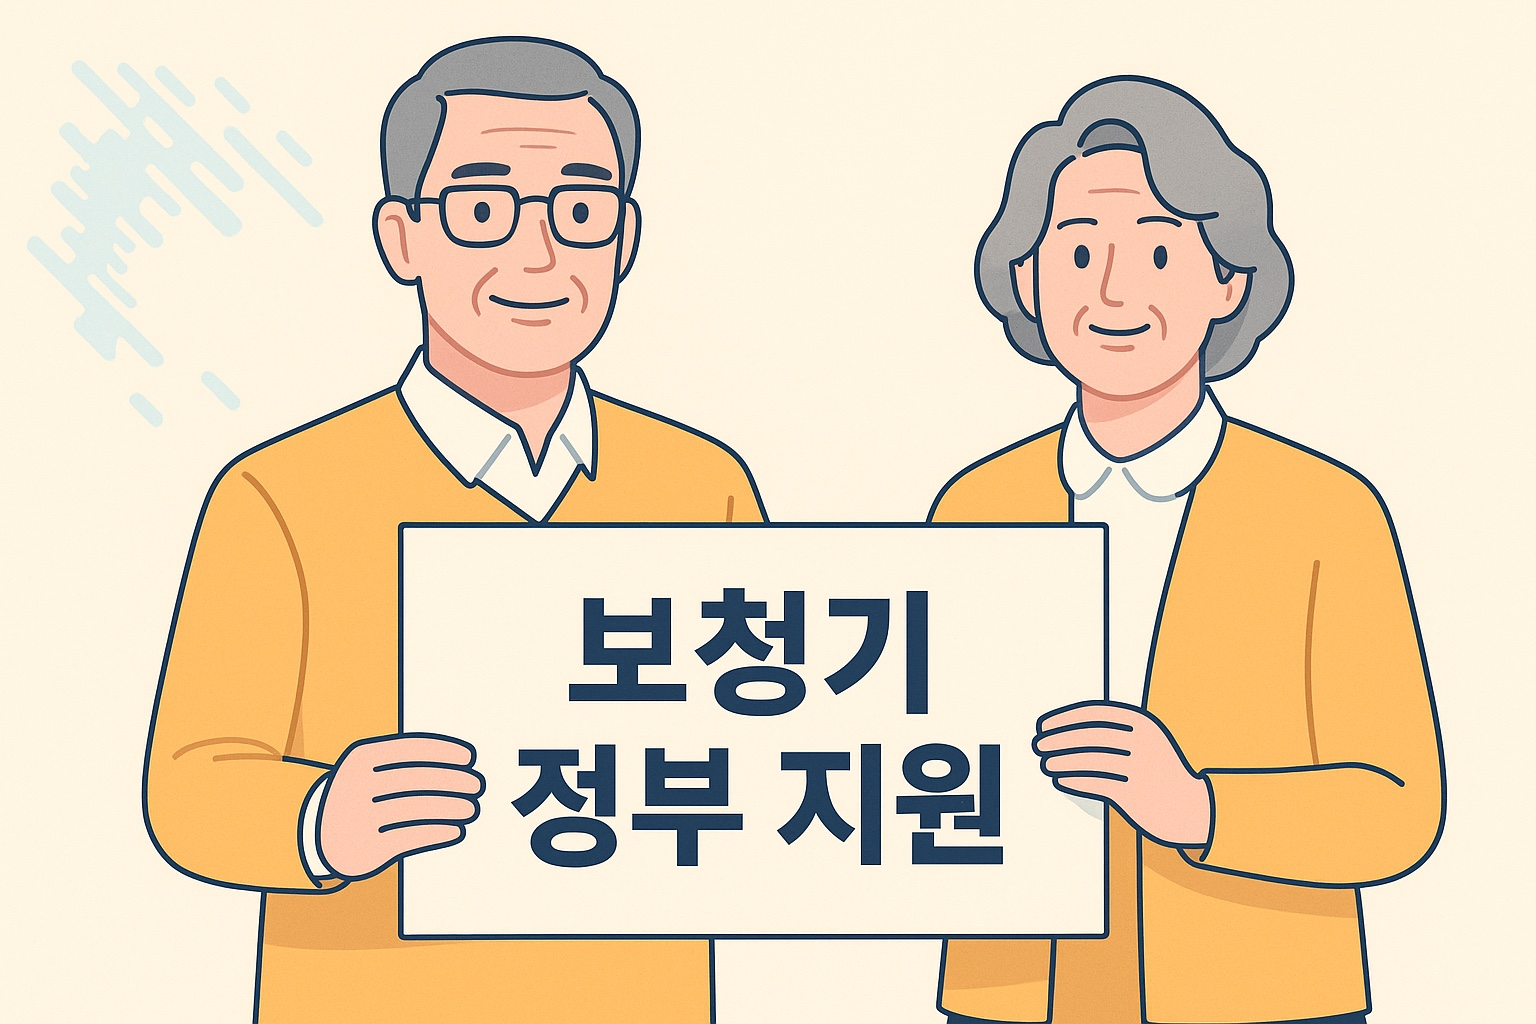
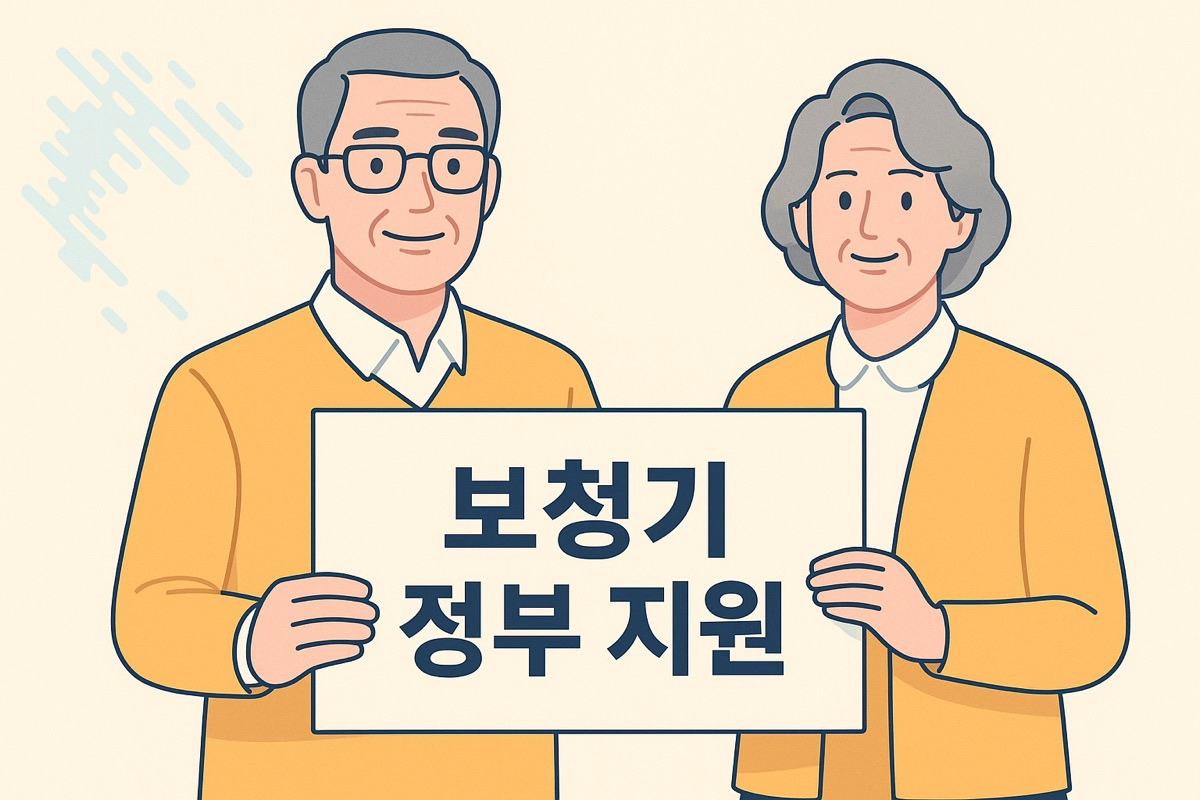
사이트 점검 수정: 카톡/SNS 공유 미리보기(og 절대주소+서브페이지 og/canonical), 개인정보처리방침·이용약관·404 페이지 신설, 홈 h1(sr-only), 이미지 압축(govt 368→170K, hero 332→244K), CSS v=6

diff --git a/privacy.html b/privacy.html
@@ -3,15 +3,10 @@
 <head>
 <meta charset="UTF-8">
 <meta name="viewport" content="width=device-width, initial-scale=1.0">
-<title>문의/상담 | 창원 진해 귀인보청기 청각재활센터</title>
-<meta name="description" content="궁금한 점이 있으시거나 상담을 원하시면 편하게 전화로 문의해주세요. 귀인 보청기 010-6599-0109">
+<title>개인정보처리방침 | 귀인보청기 청각재활센터</title>
+<meta name="description" content="귀인보청기 청각재활센터 개인정보처리방침">
 <link rel="icon" href="images/logo.png">
-<link rel="canonical" href="https://inear-hearing.github.io/contact.html">
-<meta property="og:type" content="website">
-<meta property="og:url" content="https://inear-hearing.github.io/contact.html">
-<meta property="og:title" content="문의/상담 | 창원 진해 귀인보청기 청각재활센터">
-<meta property="og:description" content="궁금한 점이 있으시거나 상담을 원하시면 편하게 전화로 문의해주세요. 귀인 보청기 010-6599-0109">
-<meta property="og:image" content="https://inear-hearing.github.io/images/hero.jpg">
+<link rel="canonical" href="https://inear-hearing.github.io/privacy.html">
 <link rel="stylesheet" href="css/style.css?v=6">
 </head>
 <body>
@@ -25,34 +20,39 @@
       <a href="director.html">함께하는 사람들</a>
       <a href="tour.html">둘러보기</a>
       <a href="location.html">진료시간 &amp; 오시는길</a>
-      <a href="contact.html" class="tel active">문의 : 010-6599-0109</a>
+      <a href="contact.html" class="tel">문의 : 010-6599-0109</a>
     </nav>
   </div>
 </header>
 
-<section class="page-hero" style="background-image:url('images/hero.jpg')">
+<section class="page-hero" style="background-image:url('images/tour02.jpg')">
   <div class="ph-inner">
     <div class="ic"><svg viewBox="0 0 48 48" fill="none" stroke="#fff" stroke-width="2.6" stroke-linecap="round" stroke-linejoin="round"><path d="M16 34c-3.5 0-6-2.8-6-7.5C10 18 16 12 24 12s13 5.5 13 13c0 5-3 8-6.5 8"/><path d="M24 23a2.5 2.5 0 0 1 2.5 2.5C26.5 27.5 25 28 25 30"/></svg></div>
-    <h1>문의하기</h1>
+    <h1>개인정보처리방침</h1>
   </div>
 </section>
-<div class="subnav"><div class="inner">
-  <a href="index.html">귀인보청기 소개</a>
-  <a href="director.html">함께하는 사람들</a>
-  <a href="tour.html">둘러보기</a>
-  <a href="location.html">진료시간 &amp; 오시는길</a>
-  <a href="contact.html" class="active">문의 : 010-6599-0109</a>
-</div></div>
 
 <section class="sec">
-  <div class="container">
-    <div class="contact-box">
-      <h2>예약 문의</h2>
-      <p>궁금한 점이 있으시거나 상담을 원하시면<br>편하게 전화로 문의해주세요.</p>
-      <a class="contact-tel" href="tel:01065990109">
-        <svg viewBox="0 0 24 24" fill="none" stroke="currentColor" stroke-width="2" stroke-linecap="round" stroke-linejoin="round"><path d="M22 16.92v3a2 2 0 0 1-2.18 2 19.79 19.79 0 0 1-8.63-3.07 19.5 19.5 0 0 1-6-6 19.79 19.79 0 0 1-3.07-8.67A2 2 0 0 1 4.11 2h3a2 2 0 0 1 2 1.72c.13.96.36 1.9.7 2.81a2 2 0 0 1-.45 2.11L8.09 9.91a16 16 0 0 0 6 6l1.27-1.27a2 2 0 0 1 2.11-.45c.91.34 1.85.57 2.81.7A2 2 0 0 1 22 16.92z"/></svg>
-        010-6599-0109
-      </a>
+  <div class="container" style="max-width:820px">
+    <div class="legal" style="color:var(--body);font-size:15.5px;line-height:1.9">
+      <p>주식회사 귀인 보청기(이하 ‘귀인보청기’)는 이용자의 개인정보를 소중히 여기며, 「개인정보 보호법」 등 관련 법령을 준수합니다.</p>
+
+      <h3 style="color:var(--ink);font-size:18px;margin:28px 0 10px">1. 수집하는 개인정보</h3>
+      <p>본 홈페이지는 회원가입, 게시판, 쿠키 기반 추적 기능을 운영하지 않으며, 홈페이지 이용만으로는 개인정보를 수집하지 않습니다. 전화 상담·예약 과정에서 성함, 연락처, 청력 관련 상담 내용을 제공받을 수 있습니다.</p>
+
+      <h3 style="color:var(--ink);font-size:18px;margin:28px 0 10px">2. 개인정보의 이용 목적</h3>
+      <p>전화 상담 시 제공된 정보는 상담, 예약 안내, 사후관리(A/S) 연락 목적으로만 사용하며, 그 외 목적으로 이용하거나 제3자에게 제공하지 않습니다.</p>
+
+      <h3 style="color:var(--ink);font-size:18px;margin:28px 0 10px">3. 개인정보의 보유 및 파기</h3>
+      <p>상담·사후관리 목적 달성 시까지 보유하며, 목적 달성 후 또는 이용자의 요청 시 지체 없이 파기합니다.</p>
+
+      <h3 style="color:var(--ink);font-size:18px;margin:28px 0 10px">4. 외부 서비스 링크</h3>
+      <p>홈페이지 내 네이버 지도·카카오맵 등 외부 서비스 링크 이용 시, 해당 서비스의 개인정보처리방침이 적용됩니다.</p>
+
+      <h3 style="color:var(--ink);font-size:18px;margin:28px 0 10px">5. 개인정보 보호책임자 및 문의</h3>
+      <p>개인정보 관련 문의: 대표 이성행 · 전화 <a href="tel:01065990109" style="color:var(--blue);font-weight:700">010-6599-0109</a></p>
+
+      <p style="margin-top:30px;color:var(--muted);font-size:13.5px">시행일: 2026년 6월</p>
     </div>
   </div>
 </section>

diff --git a/terms.html b/terms.html
@@ -3,15 +3,10 @@
 <head>
 <meta charset="UTF-8">
 <meta name="viewport" content="width=device-width, initial-scale=1.0">
-<title>문의/상담 | 창원 진해 귀인보청기 청각재활센터</title>
-<meta name="description" content="궁금한 점이 있으시거나 상담을 원하시면 편하게 전화로 문의해주세요. 귀인 보청기 010-6599-0109">
+<title>이용약관 | 귀인보청기 청각재활센터</title>
+<meta name="description" content="귀인보청기 청각재활센터 홈페이지 이용약관">
 <link rel="icon" href="images/logo.png">
-<link rel="canonical" href="https://inear-hearing.github.io/contact.html">
-<meta property="og:type" content="website">
-<meta property="og:url" content="https://inear-hearing.github.io/contact.html">
-<meta property="og:title" content="문의/상담 | 창원 진해 귀인보청기 청각재활센터">
-<meta property="og:description" content="궁금한 점이 있으시거나 상담을 원하시면 편하게 전화로 문의해주세요. 귀인 보청기 010-6599-0109">
-<meta property="og:image" content="https://inear-hearing.github.io/images/hero.jpg">
+<link rel="canonical" href="https://inear-hearing.github.io/terms.html">
 <link rel="stylesheet" href="css/style.css?v=6">
 </head>
 <body>
@@ -25,34 +20,37 @@
       <a href="director.html">함께하는 사람들</a>
       <a href="tour.html">둘러보기</a>
       <a href="location.html">진료시간 &amp; 오시는길</a>
-      <a href="contact.html" class="tel active">문의 : 010-6599-0109</a>
+      <a href="contact.html" class="tel">문의 : 010-6599-0109</a>
     </nav>
   </div>
 </header>
 
-<section class="page-hero" style="background-image:url('images/hero.jpg')">
+<section class="page-hero" style="background-image:url('images/tour02.jpg')">
   <div class="ph-inner">
     <div class="ic"><svg viewBox="0 0 48 48" fill="none" stroke="#fff" stroke-width="2.6" stroke-linecap="round" stroke-linejoin="round"><path d="M16 34c-3.5 0-6-2.8-6-7.5C10 18 16 12 24 12s13 5.5 13 13c0 5-3 8-6.5 8"/><path d="M24 23a2.5 2.5 0 0 1 2.5 2.5C26.5 27.5 25 28 25 30"/></svg></div>
-    <h1>문의하기</h1>
+    <h1>이용약관</h1>
   </div>
 </section>
-<div class="subnav"><div class="inner">
-  <a href="index.html">귀인보청기 소개</a>
-  <a href="director.html">함께하는 사람들</a>
-  <a href="tour.html">둘러보기</a>
-  <a href="location.html">진료시간 &amp; 오시는길</a>
-  <a href="contact.html" class="active">문의 : 010-6599-0109</a>
-</div></div>
 
 <section class="sec">
-  <div class="container">
-    <div class="contact-box">
-      <h2>예약 문의</h2>
-      <p>궁금한 점이 있으시거나 상담을 원하시면<br>편하게 전화로 문의해주세요.</p>
-      <a class="contact-tel" href="tel:01065990109">
-        <svg viewBox="0 0 24 24" fill="none" stroke="currentColor" stroke-width="2" stroke-linecap="round" stroke-linejoin="round"><path d="M22 16.92v3a2 2 0 0 1-2.18 2 19.79 19.79 0 0 1-8.63-3.07 19.5 19.5 0 0 1-6-6 19.79 19.79 0 0 1-3.07-8.67A2 2 0 0 1 4.11 2h3a2 2 0 0 1 2 1.72c.13.96.36 1.9.7 2.81a2 2 0 0 1-.45 2.11L8.09 9.91a16 16 0 0 0 6 6l1.27-1.27a2 2 0 0 1 2.11-.45c.91.34 1.85.57 2.81.7A2 2 0 0 1 22 16.92z"/></svg>
-        010-6599-0109
-      </a>
+  <div class="container" style="max-width:820px">
+    <div class="legal" style="color:var(--body);font-size:15.5px;line-height:1.9">
+      <h3 style="color:var(--ink);font-size:18px;margin:0 0 10px">제1조 (목적)</h3>
+      <p>본 약관은 주식회사 귀인 보청기(이하 ‘귀인보청기’)가 운영하는 홈페이지의 이용 조건 및 절차에 관한 사항을 규정합니다.</p>
+
+      <h3 style="color:var(--ink);font-size:18px;margin:28px 0 10px">제2조 (서비스의 내용)</h3>
+      <p>본 홈페이지는 귀인보청기 센터 소개, 진료시간·위치 안내, 보청기 및 정부지원 제도에 관한 일반 정보를 제공합니다.</p>
+
+      <h3 style="color:var(--ink);font-size:18px;margin:28px 0 10px">제3조 (정보의 한계)</h3>
+      <p>홈페이지에 게시된 보청기 정부지원 금액·절차 등은 일반적인 안내로, 관련 법령·제도 변경에 따라 달라질 수 있습니다. 정확한 내용은 전화(010-6599-0109) 또는 방문 상담을 통해 확인해 주시기 바랍니다. 본 홈페이지의 정보는 의학적 진단을 대신하지 않습니다.</p>
+
+      <h3 style="color:var(--ink);font-size:18px;margin:28px 0 10px">제4조 (저작권)</h3>
+      <p>홈페이지에 게시된 텍스트, 사진, 이미지 등 모든 콘텐츠의 저작권은 귀인보청기에 있으며, 사전 동의 없는 무단 복제·배포를 금합니다.</p>
+
+      <h3 style="color:var(--ink);font-size:18px;margin:28px 0 10px">제5조 (문의)</h3>
+      <p>본 약관에 관한 문의: 전화 <a href="tel:01065990109" style="color:var(--blue);font-weight:700">010-6599-0109</a></p>
+
+      <p style="margin-top:30px;color:var(--muted);font-size:13.5px">시행일: 2026년 6월</p>
     </div>
   </div>
 </section>

diff --git a/index.html b/index.html
@@ -8,12 +8,12 @@
 <meta name="description" content="창원 진해 귀인보청기 청각재활센터 — 전문 청각사의 1:1 맞춤 상담·피팅, 보청기 정부지원 전 과정 안내, 평생 A/S 사후관리. 전화 010-6599-0109">
 <meta property="og:title" content="창원 진해 귀인보청기 청각재활센터">
 <meta property="og:description" content="귀한 당신을 위한, 귀인 보청기 — 듣는 것을 넘어서 사람을 먼저 생각합니다.">
-<meta property="og:image" content="images/hero.jpg">
+<meta property="og:image" content="https://inear-hearing.github.io/images/hero.jpg">
 <link rel="icon" href="images/logo.png">
 <link rel="canonical" href="https://inear-hearing.github.io/">
 <meta property="og:type" content="website">
 <meta property="og:url" content="https://inear-hearing.github.io/">
-<link rel="stylesheet" href="css/style.css?v=5">
+<link rel="stylesheet" href="css/style.css?v=6">
 <script type="application/ld+json">
 {
   "@context": "https://schema.org",
@@ -67,6 +67,7 @@
 
 <!-- ===== 히어로 ===== -->
 <section class="hero">
+  <h1 class="sr-only">창원 진해·부산 명지 귀인보청기 청각재활센터 — 귀한 당신을 위한 귀인 보청기</h1>
   <div class="hero-slides">
     <div class="slide on" style="background-image:url('images/hero.jpg')"></div>
     <div class="slide" style="background-image:url('images/tour02.jpg')"></div>
@@ -286,7 +287,7 @@
 <footer class="site-footer">
   <div class="container">
     <div class="flogo"><img src="images/logo.png" alt="귀인 보청기"></div>
-    <div class="policy"><a href="#">개인정보처리방침</a><span>|</span><a href="#">이용약관</a></div>
+    <div class="policy"><a href="privacy.html">개인정보처리방침</a><span>|</span><a href="terms.html">이용약관</a></div>
     <p class="biz">상호: 주식회사 귀인 보청기 &nbsp;|&nbsp; 대표자: 이성행 &nbsp;|&nbsp; 사업자등록번호: 729-81-03499<br>
       진해센터: 경남 창원시 진해구 진해대로 999, 1층 108호(자은동, 하이존빌딩)<br>명지서비스센터: 부산시 강서구 명지국제6로 99, 부산명지대방디엠시티센텀오션 1차 A동 1070호<br>전화: 010-6599-0109</p>
     <p class="copy">Copyright ⓒ 2025 귀인보청기 All rights reserved.</p>

diff --git a/director.html b/director.html
@@ -6,7 +6,13 @@
 <title>함께하는 사람들 | 창원 진해 귀인보청기 청각재활센터</title>
 <meta name="description" content="귀인보청기는 전문 청각사들이 직접 상담하고 안내하는 청각재활센터입니다. 청각사 이성행·윤동후·윤나영을 소개합니다.">
 <link rel="icon" href="images/logo.png">
-<link rel="stylesheet" href="css/style.css?v=5">
+<link rel="canonical" href="https://inear-hearing.github.io/director.html">
+<meta property="og:type" content="website">
+<meta property="og:url" content="https://inear-hearing.github.io/director.html">
+<meta property="og:title" content="함께하는 사람들 | 창원 진해 귀인보청기 청각재활센터">
+<meta property="og:description" content="귀인보청기는 전문 청각사들이 직접 상담하고 안내하는 청각재활센터입니다. 청각사 이성행·윤동후·윤나영을 소개합니다.">
+<meta property="og:image" content="https://inear-hearing.github.io/images/team.jpg">
+<link rel="stylesheet" href="css/style.css?v=6">
 </head>
 <body>
 
@@ -117,7 +123,7 @@
 <footer class="site-footer">
   <div class="container">
     <div class="flogo"><img src="images/logo.png" alt="귀인 보청기"></div>
-    <div class="policy"><a href="#">개인정보처리방침</a><span>|</span><a href="#">이용약관</a></div>
+    <div class="policy"><a href="privacy.html">개인정보처리방침</a><span>|</span><a href="terms.html">이용약관</a></div>
     <p class="biz">상호: 주식회사 귀인 보청기 &nbsp;|&nbsp; 대표자: 이성행 &nbsp;|&nbsp; 사업자등록번호: 729-81-03499<br>
       진해센터: 경남 창원시 진해구 진해대로 999, 1층 108호(자은동, 하이존빌딩)<br>명지서비스센터: 부산시 강서구 명지국제6로 99, 부산명지대방디엠시티센텀오션 1차 A동 1070호<br>전화: 010-6599-0109</p>
     <p class="copy">Copyright ⓒ 2025 귀인보청기 All rights reserved.</p>

diff --git a/tour.html b/tour.html
@@ -6,7 +6,13 @@
 <title>둘러보기 | 창원 진해 귀인보청기 청각재활센터</title>
 <meta name="description" content="귀인을 찾아주시는 모든 분들이 편안하게 머무를 수 있도록 세심하게 만든 공간, 귀인 보청기 청각재활센터를 둘러보세요.">
 <link rel="icon" href="images/logo.png">
-<link rel="stylesheet" href="css/style.css?v=5">
+<link rel="canonical" href="https://inear-hearing.github.io/tour.html">
+<meta property="og:type" content="website">
+<meta property="og:url" content="https://inear-hearing.github.io/tour.html">
+<meta property="og:title" content="둘러보기 | 창원 진해 귀인보청기 청각재활센터">
+<meta property="og:description" content="귀인을 찾아주시는 모든 분들이 편안하게 머무를 수 있도록 세심하게 만든 공간, 귀인 보청기 청각재활센터를 둘러보세요.">
+<meta property="og:image" content="https://inear-hearing.github.io/images/tour01.jpg">
+<link rel="stylesheet" href="css/style.css?v=6">
 </head>
 <body>
 
@@ -73,7 +79,7 @@
 <footer class="site-footer">
   <div class="container">
     <div class="flogo"><img src="images/logo.png" alt="귀인 보청기"></div>
-    <div class="policy"><a href="#">개인정보처리방침</a><span>|</span><a href="#">이용약관</a></div>
+    <div class="policy"><a href="privacy.html">개인정보처리방침</a><span>|</span><a href="terms.html">이용약관</a></div>
     <p class="biz">상호: 주식회사 귀인 보청기 &nbsp;|&nbsp; 대표자: 이성행 &nbsp;|&nbsp; 사업자등록번호: 729-81-03499<br>
       진해센터: 경남 창원시 진해구 진해대로 999, 1층 108호(자은동, 하이존빌딩)<br>명지서비스센터: 부산시 강서구 명지국제6로 99, 부산명지대방디엠시티센텀오션 1차 A동 1070호<br>전화: 010-6599-0109</p>
     <p class="copy">Copyright ⓒ 2025 귀인보청기 All rights reserved.</p>

diff --git a/location.html b/location.html
@@ -6,7 +6,13 @@
 <title>진료시간 &amp; 오시는길 | 창원 진해 귀인보청기 청각재활센터</title>
 <meta name="description" content="귀인보청기 진해센터(경남 창원시 진해구 진해대로 999)와 명지서비스센터(부산시 강서구 명지국제6로 99) 위치·진료시간·전화 안내.">
 <link rel="icon" href="images/logo.png">
-<link rel="stylesheet" href="css/style.css?v=5">
+<link rel="canonical" href="https://inear-hearing.github.io/location.html">
+<meta property="og:type" content="website">
+<meta property="og:url" content="https://inear-hearing.github.io/location.html">
+<meta property="og:title" content="진료시간 & 오시는길 | 창원 진해 귀인보청기 청각재활센터">
+<meta property="og:description" content="귀인보청기 진해센터(경남 창원시 진해구 진해대로 999)와 명지서비스센터(부산시 강서구 명지국제6로 99) 위치·진료시간·전화 안내.">
+<meta property="og:image" content="https://inear-hearing.github.io/images/map.jpg">
+<link rel="stylesheet" href="css/style.css?v=6">
 </head>
 <body>
 
@@ -117,7 +123,7 @@
 <footer class="site-footer">
   <div class="container">
     <div class="flogo"><img src="images/logo.png" alt="귀인 보청기"></div>
-    <div class="policy"><a href="#">개인정보처리방침</a><span>|</span><a href="#">이용약관</a></div>
+    <div class="policy"><a href="privacy.html">개인정보처리방침</a><span>|</span><a href="terms.html">이용약관</a></div>
     <p class="biz">상호: 주식회사 귀인 보청기 &nbsp;|&nbsp; 대표자: 이성행 &nbsp;|&nbsp; 사업자등록번호: 729-81-03499<br>
       진해센터: 경남 창원시 진해구 진해대로 999, 1층 108호(자은동, 하이존빌딩)<br>
       명지서비스센터: 부산시 강서구 명지국제6로 99, 부산명지대방디엠시티센텀오션 1차 A동 1070호<br>전화: 010-6599-0109</p>

diff --git a/404.html b/404.html
@@ -1,0 +1,45 @@
+<!DOCTYPE html>
+<html lang="ko">
+<head>
+<meta charset="UTF-8">
+<meta name="viewport" content="width=device-width, initial-scale=1.0">
+<meta name="robots" content="noindex">
+<title>페이지를 찾을 수 없습니다 | 귀인보청기 청각재활센터</title>
+<link rel="icon" href="/images/logo.png">
+<link rel="stylesheet" href="/css/style.css?v=6">
+</head>
+<body>
+
+<header class="site-header">
+  <div class="inner">
+    <a class="logo" href="/"><img src="/images/logo.png" alt="귀인 보청기"></a>
+    <nav class="gnb">
+      <a href="/">귀인보청기 소개</a>
+      <a href="/director.html">함께하는 사람들</a>
+      <a href="/tour.html">둘러보기</a>
+      <a href="/location.html">진료시간 &amp; 오시는길</a>
+      <a href="/contact.html" class="tel">문의 : 010-6599-0109</a>
+    </nav>
+  </div>
+</header>
+
+<section class="sec" style="min-height:55vh;display:flex;align-items:center">
+  <div class="container center">
+    <img src="/images/logo.png" alt="귀인 보청기" style="height:52px;margin:0 auto 26px">
+    <h1 style="font-size:26px;color:var(--ink);margin-bottom:14px">페이지를 찾을 수 없습니다</h1>
+    <p style="color:var(--body);line-height:1.8">주소가 잘못 입력되었거나, 페이지가 이동되었을 수 있습니다.</p>
+    <p style="margin-top:26px">
+      <a class="btn-line" href="/">홈으로 가기 →</a>
+    </p>
+    <p style="margin-top:22px;color:var(--muted);font-size:14px">문의 전화: <a href="tel:01065990109" style="color:var(--blue);font-weight:700">010-6599-0109</a></p>
+  </div>
+</section>
+
+<footer class="site-footer">
+  <div class="container">
+    <p class="biz">상호: 주식회사 귀인 보청기 &nbsp;|&nbsp; 전화: 010-6599-0109</p>
+    <p class="copy">Copyright ⓒ 2025 귀인보청기 All rights reserved.</p>
+  </div>
+</footer>
+</body>
+</html>

diff --git a/css/style.css b/css/style.css
@@ -259,3 +259,6 @@ section{position:relative}
 .faq summary:hover{color:var(--blue)}
 .faq .a{padding:0 22px 20px;color:var(--body);font-size:15.5px;line-height:1.8}
 .faq .a b{color:var(--ink)}
+
+/* 화면에는 안 보이고 검색엔진·스크린리더만 읽는 텍스트 */
+.sr-only{position:absolute;width:1px;height:1px;padding:0;margin:-1px;overflow:hidden;clip:rect(0 0 0 0);white-space:nowrap;border:0}
